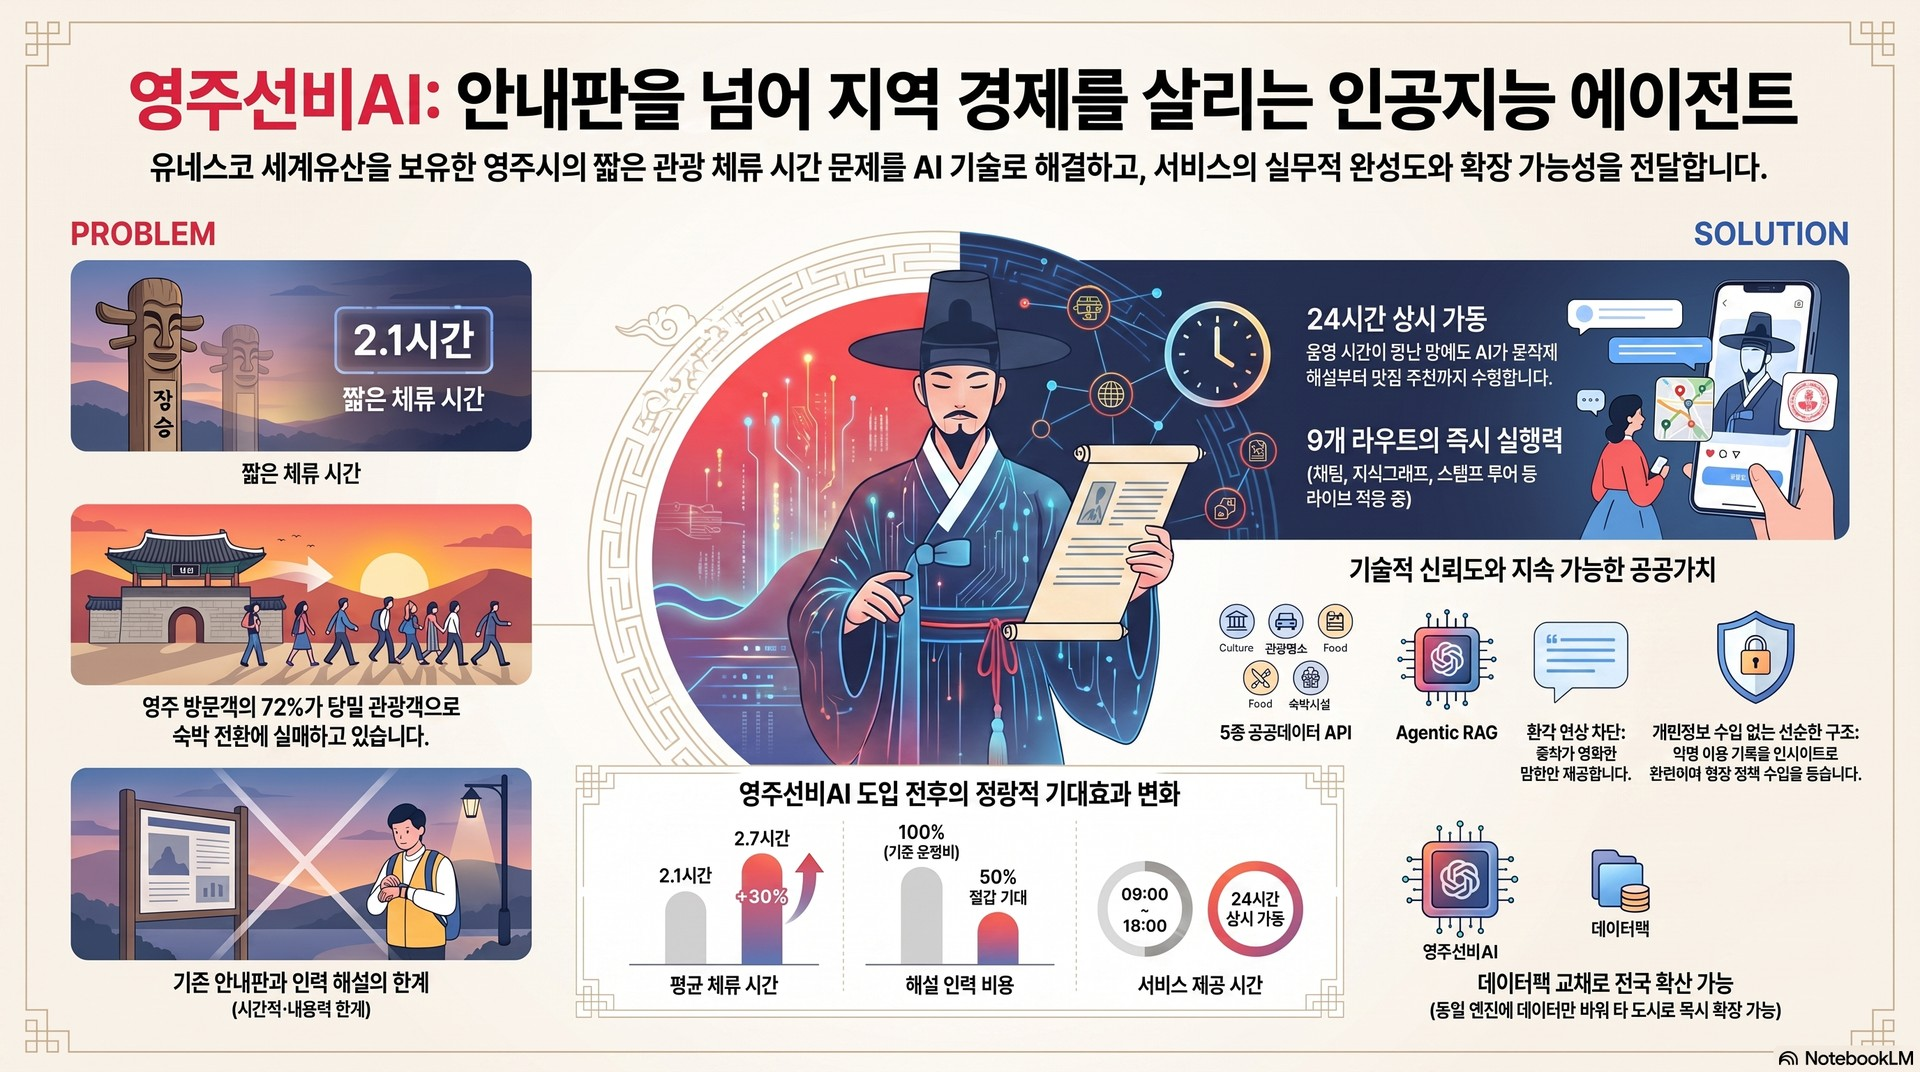
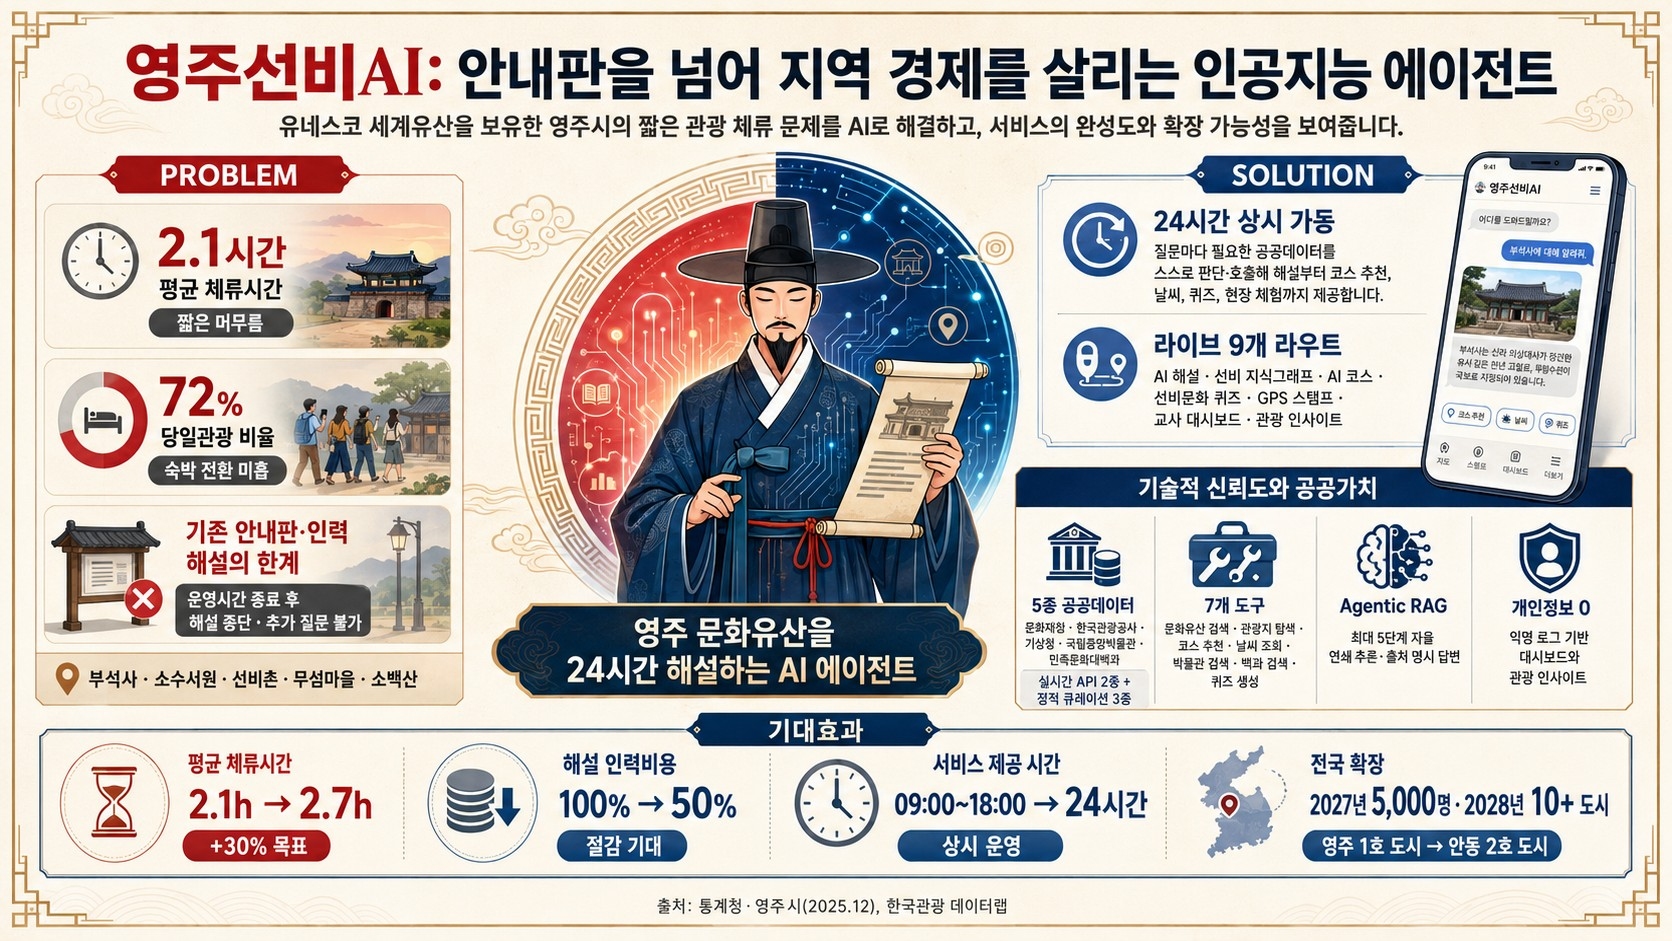
feat(home): 히어로=라벨형 에이전트 일러스트(S4 라벨 제거), 인포그래픽=폴리시드판 교체
- 히어로 일러스트를 5종 데이터(문화재·날씨·관광·백과·박물관)가 AI 에이전트 중심으로 방사하는 라벨 버전으로 교체. 발표 슬라이드 잔재 "S4 Agentic RAG" 박스는 종이 패치로 제거.
- "한 장으로 보는 영주선비AI" 인포그래픽을 폴리시드판(제목+PROBLEM/SOLUTION+phone목업+기대효과)으로 교체. Image 치수 1672x941 정합, 출처는 이미지 내장이라 중복 캡션 제거.

diff --git a/src/app/page.tsx b/src/app/page.tsx
@@ -445,14 +445,11 @@ export default function HomePage() {
             <Image
               src="/infographic.jpg"
               alt="영주선비AI 한 장 요약 인포그래픽 — 문제, 해결, 기술 신뢰도와 공공가치, 기대효과, 전국 확장"
-              width={1920}
-              height={1072}
+              width={1672}
+              height={941}
               className="w-full h-auto"
             />
           </motion.div>
-          <p className="mt-3 text-center text-xs text-[var(--color-earth-500)]">
-            출처: 통계청 · 영주시(2025.12), 한국관광 데이터랩
-          </p>
         </div>
       </section>
 